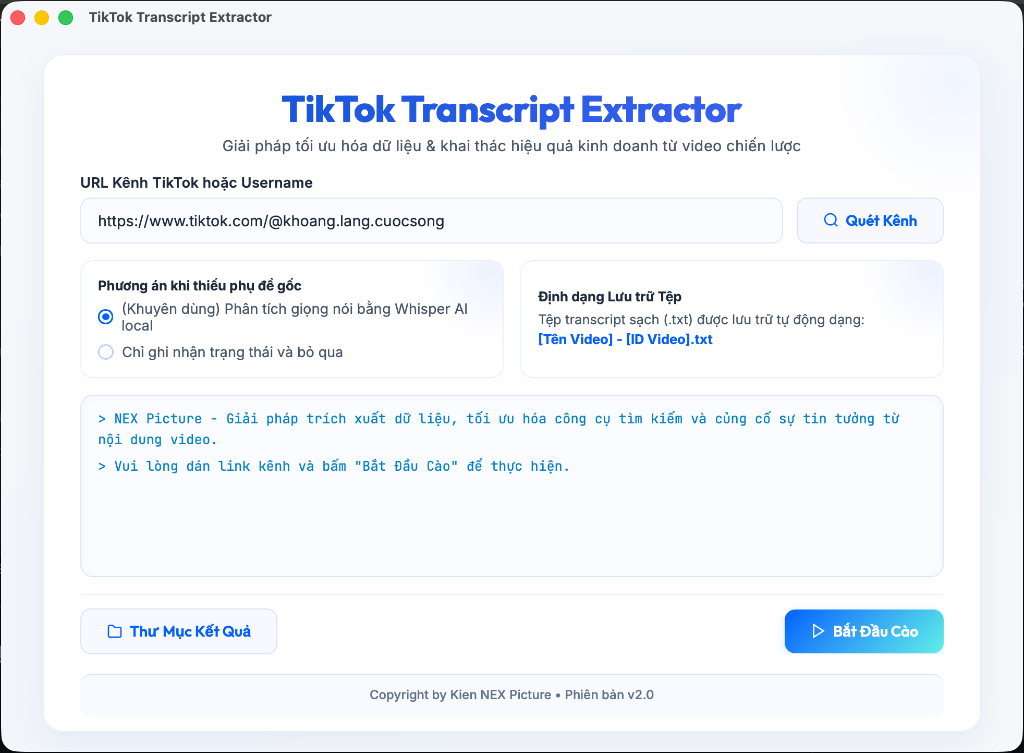
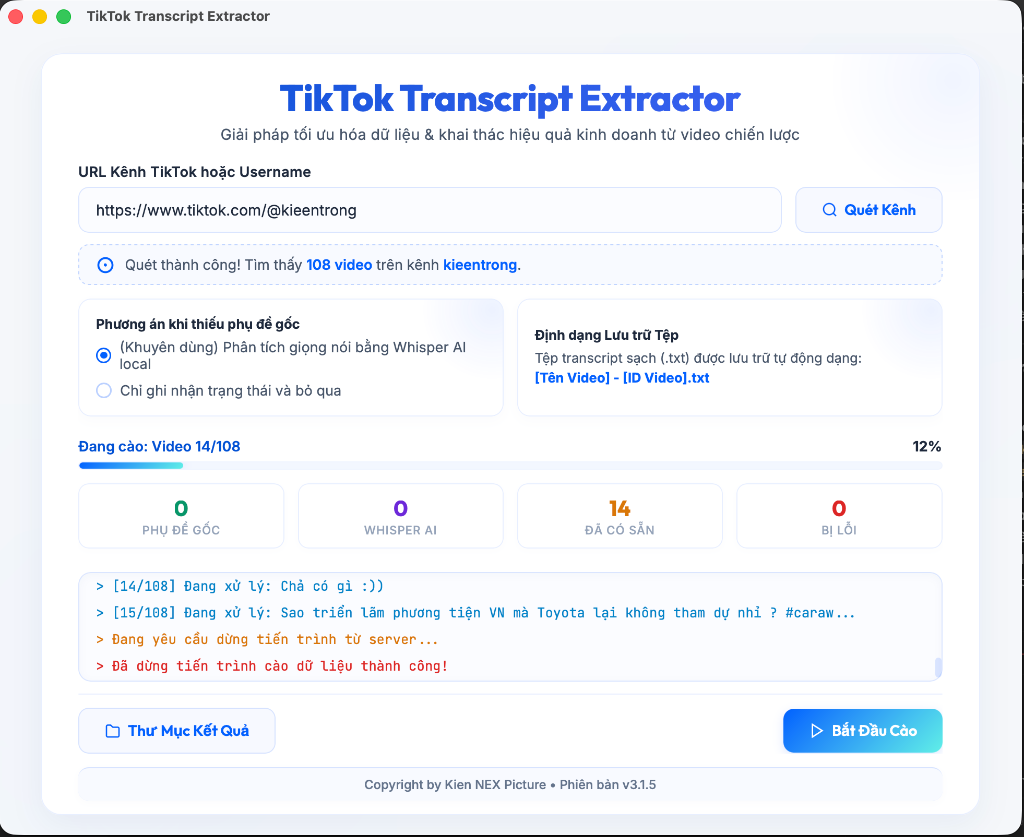
release: v3.1.5 - fix macOS production server connection, optimize layout spacing, change changelog author to kieentrong and update screenshot

diff --git a/templates/index.html b/templates/index.html
@@ -88,11 +88,11 @@
             width: 100%;
             max-width: 900px;
             height: 100%;
-            max-height: 680px; /* Thu gọn chiều cao tối đa của container để vừa khít màn hình */
+            max-height: 750px; /* Tối ưu hóa chiều cao container cho giao diện mới v3.1.3 */
             background: var(--nex-surface);
             border: 1px solid var(--nex-border);
             border-radius: 20px;
-            padding: 1.8rem 2.2rem 1rem 2.2rem; /* Tối ưu hóa padding dọc */
+            padding: 1.2rem 2.2rem 0.8rem 2.2rem; /* Tối ưu hóa padding dọc cho phiên bản v3.1.5 */
             box-shadow: var(--nex-shadow);
             z-index: 10;
             position: relative;
@@ -154,7 +154,7 @@
 
         /* Forms & Inputs */
         .form-group {
-            margin-bottom: 1rem;
+            margin-bottom: 0.7rem;
         }
 
         .form-group label {
@@ -261,8 +261,8 @@
         .config-grid {
             display: grid;
             grid-template-columns: repeat(auto-fit, minmax(280px, 1fr));
-            gap: 1rem;
-            margin-bottom: 1rem;
+            gap: 0.8rem;
+            margin-bottom: 0.7rem;
         }
 
         .config-card {
@@ -479,10 +479,10 @@
             font-size: 0.8rem;
             color: #334155; /* Chữ sẫm màu dễ nhìn */
             flex: 1 1 auto; /* Tự động co giãn */
-            min-height: 120px;
-            max-height: 180px; /* Khống chế chiều cao console vừa vặn */
+            min-height: 80px;
+            max-height: 120px; /* Khống chế chiều cao console vừa vặn */
             overflow-y: auto;
-            margin-bottom: 1rem;
+            margin-bottom: 0.7rem;
             box-shadow: inset 0 2px 8px rgba(0, 42, 110, 0.03); /* Bóng đổ lõm dịu mắt */
             scroll-behavior: smooth;
         }
@@ -537,11 +537,11 @@
 
         /* NEX Picture Compact LIGHT Brand Footer - Đồng bộ 100% màu sáng */
         .footer-brand {
-            margin-top: 1.2rem;
+            margin-top: 0.8rem;
             background: rgba(0, 97, 255, 0.03); /* Nền xanh băng nhạt thanh nhã */
             color: #64748b; /* Chữ xám ghi sang trọng */
             border-radius: 10px;
-            padding: 0.7rem 1.2rem;
+            padding: 0.5rem 1.2rem;
             font-size: 0.75rem;
             font-weight: 500;
             position: relative;
@@ -584,7 +584,7 @@
             <div class="form-group">
                 <label for="channel-url">URL Kênh TikTok hoặc Username</label>
                 <div class="input-row">
-                    <input type="text" id="channel-url" class="input-control" placeholder="Ví dụ: https://www.tiktok.com/@khoang.lang.cuocsong hoặc @khoang.lang.cuocsong" value="https://www.tiktok.com/@khoang.lang.cuocsong">
+                    <input type="text" id="channel-url" class="input-control" placeholder="Ví dụ: https://www.tiktok.com/@kieentrong hoặc @kieentrong" value="https://www.tiktok.com/@kieentrong">
                     <button id="btn-scan" class="btn btn-secondary">
                         <svg width="16" height="16" fill="none" stroke="currentColor" stroke-width="2" viewBox="0 0 24 24"><circle cx="11" cy="11" r="8"/><path d="m21 21-4.3-4.3"/></svg>
                         Quét Kênh
@@ -599,7 +599,7 @@
             </div>
 
             <!-- Configuration Grid -->
-            <div class="config-grid">
+            <div id="config-grid" class="config-grid">
                 <div class="config-card">
                     <label style="display:block; margin-bottom: 0.3rem; font-size: 0.8rem; font-weight: 700; color: var(--text-primary);">Phương án khi thiếu phụ đề gốc</label>
                     <div class="radio-group">
@@ -682,7 +682,7 @@
         </main>
 
         <footer class="footer-brand">
-            Copyright by Kien NEX Picture • Phiên bản v2.0
+            Copyright by Kien NEX Picture • Phiên bản v3.1.5
         </footer>
     </div>
 
@@ -733,7 +733,7 @@
             appendLog(`Bắt đầu quét thông tin kênh: ${url}`);
 
             try {
-                const response = await fetch('/api/scan', {
+                const response = await fetch('http://127.0.0.1:5005/api/scan', {
                     method: 'POST',
                     headers: { 'Content-Type': 'application/json' },
                     body: JSON.stringify({ url: url })
@@ -772,6 +772,7 @@
             channelUrlInput.disabled = true;
             btnStop.style.display = 'inline-flex';
             progressSection.style.display = 'block';
+            document.getElementById('config-grid').style.display = 'none'; // Ẩn cấu hình khi cào để tối ưu giao diện
             
             // Reset stats values
             statSubVal.textContent = '0';
@@ -793,7 +794,7 @@
                 no_sub_option: noSubOption
             });
             
-            sseSource = new EventSource(`/api/start?${queryParams.toString()}`);
+            sseSource = new EventSource(`http://127.0.0.1:5005/api/start?${queryParams.toString()}`);
 
             sseSource.onmessage = function(event) {
                 const data = JSON.parse(event.data);
@@ -844,7 +845,7 @@
             appendLog('Đang yêu cầu dừng tiến trình từ server...', 'warning');
             
             try {
-                const response = await fetch('/api/stop', { method: 'POST' });
+                const response = await fetch('http://127.0.0.1:5005/api/stop', { method: 'POST' });
                 const data = await response.json();
                 if (data.status === 'success') {
                     appendLog('Đã dừng tiến trình cào dữ liệu thành công!', 'error');
@@ -867,13 +868,14 @@
             btnScan.disabled = false;
             channelUrlInput.disabled = false;
             btnStop.style.display = 'none';
+            document.getElementById('config-grid').style.display = 'grid'; // Hiển thị lại cấu hình sau khi hoàn tất
         }
 
         // Mở thư mục kết quả trong Finder macOS
         btnOpenFolder.addEventListener('click', async () => {
             try {
                 appendLog('Đang yêu cầu mở thư mục kết quả trên máy tính...');
-                const response = await fetch('/api/open-folder', { method: 'POST' });
+                const response = await fetch('http://127.0.0.1:5005/api/open-folder', { method: 'POST' });
                 const data = await response.json();
                 if (data.status === 'success') {
                     appendLog('Đã mở thư mục transcripts thành công!', 'success');

diff --git a/app.py b/app.py
@@ -25,6 +25,23 @@ import yt_dlp
 
 app = Flask(__name__)
 
+# Cấu hình CORS thủ công cho phép Tauri Webview kết nối an toàn
+@app.before_request
+def handle_options():
+    if request.method == 'OPTIONS':
+        response = Response()
+        response.headers['Access-Control-Allow-Origin'] = '*'
+        response.headers['Access-Control-Allow-Headers'] = 'Content-Type'
+        response.headers['Access-Control-Allow-Methods'] = 'POST, GET, OPTIONS'
+        return response
+
+@app.after_request
+def add_cors_headers(response):
+    response.headers['Access-Control-Allow-Origin'] = '*'
+    response.headers['Access-Control-Allow-Headers'] = 'Content-Type'
+    response.headers['Access-Control-Allow-Methods'] = 'POST, GET, OPTIONS'
+    return response
+
 # Cờ kiểm soát dừng tiến trình cào dữ liệu
 should_stop = False
 

diff --git a/README.md b/README.md
@@ -1,4 +1,4 @@
-# TikTok Transcript Extractor - NEX Picture Desktop Studio (v3.1.1)
+# TikTok Transcript Extractor - NEX Picture Desktop Studio (v3.1.5)
 
 Ứng dụng dành cho macOS giúp tự động quét, cào và trích xuất sạch sẽ toàn bộ transcript từ bất kỳ kênh TikTok nào.
 
@@ -22,6 +22,17 @@
 *   **Live Logs SSE Thời Gian Thực**: Cung cấp giao diện console log cập nhật từng giây và thanh tiến trình gradient mượt mà hiển thị chi tiết trạng thái xử lý từng video (Đã có sẵn, dùng Whisper, dùng phụ đề gốc, hoặc bị lỗi).
 *   **Tự Động Tắt Sạch Flask Server**: Khi bạn đóng cửa sổ ứng dụng Tauri, Rust Backend sẽ tự động kill sạch Flask Python server chạy ngầm dưới nền, giải phóng 100% tài nguyên RAM và CPU cho macOS.
 
+## Lịch sử cập nhật (Changelog)
+
+| Phiên bản | Ngày | Tác giả | Mô tả |
+| :--- | :--- | :--- | :--- |
+| **v3.1.5** | 25/05/2026 | kieentrong | Cập nhật link kênh mặc định thành @kieentrong và tối ưu hóa CSS padding/margin để hiển thị hoàn hảo đồng thời cả cấu hình và thanh tiến trình mà không bị mất nút khi cào/dừng. |
+| **v3.1.4** | 25/05/2026 | kieentrong | Tối ưu hóa layout (ẩn Cấu hình, tăng max-height, tăng window height) để giải quyết triệt để lỗi tràn layout gây ẩn các nút bấm ở dưới khi đang cào. |
+| **v3.1.3** | 25/05/2026 | kieentrong | Sửa lỗi kết nối server (CORS & Absolute API Endpoint) trên macOS Webview production build. |
+| **v3.1.2** | 25/05/2026 | kieentrong | Cập nhật hình ảnh minh họa giao diện chính trên README.md (White/Ice Theme mới v2.0). |
+| **v3.1.1** | 25/05/2026 | kieentrong | Tích hợp Whisper AI Local dự phòng, làm sạch văn bản, live logs SSE và cơ chế tự động cài đặt. |
+| **v2.0.0** | 25/05/2026 | kieentrong | Bản cập nhật lớn giao diện và cấu trúc dự án. |
+
 ---
 
 ## 🚀 Hướng Dẫn Cài Đặt Chi Tiết
@@ -33,7 +44,7 @@
 
 *   **Bước 1: Tải file cài đặt**
     *   Bấm vào link [Trang Releases của GitHub](https://github.com/kieentrong/tiktok-transcript-extractor/releases).
-    *   Tại mục bản phát hành mới nhất, bấm vào tệp tin **`TikTok Transcript Extractor_3.0.0_aarch64.dmg`** ở phần *Assets* để tải về máy Mac của bạn.
+    *   Tại mục bản phát hành mới nhất, bấm vào tệp tin **`TikTok Transcript Extractor_3.1.5_aarch64.dmg`** ở phần *Assets* để tải về máy Mac của bạn.
 *   **Bước 2: Cài đặt vào máy**
     *   Nhấp đúp chuột vào file `.dmg` vừa tải về để mở cửa sổ đĩa đệm.
     *   **Kéo và thả** biểu tượng ứng dụng **TikTok Transcript Extractor** vào thư mục **Applications** (Ứng dụng) trên máy Mac của bạn.
@@ -82,4 +93,5 @@ Các tệp đóng gói hoàn tất sẽ xuất hiện tại thư mục `src-taur
 
 ---
 
-*Copyright by Kien NEX Picture • Phiên bản v2.0*
+*Copyright by Kien NEX Picture • Phiên bản v3.1.5*
+
